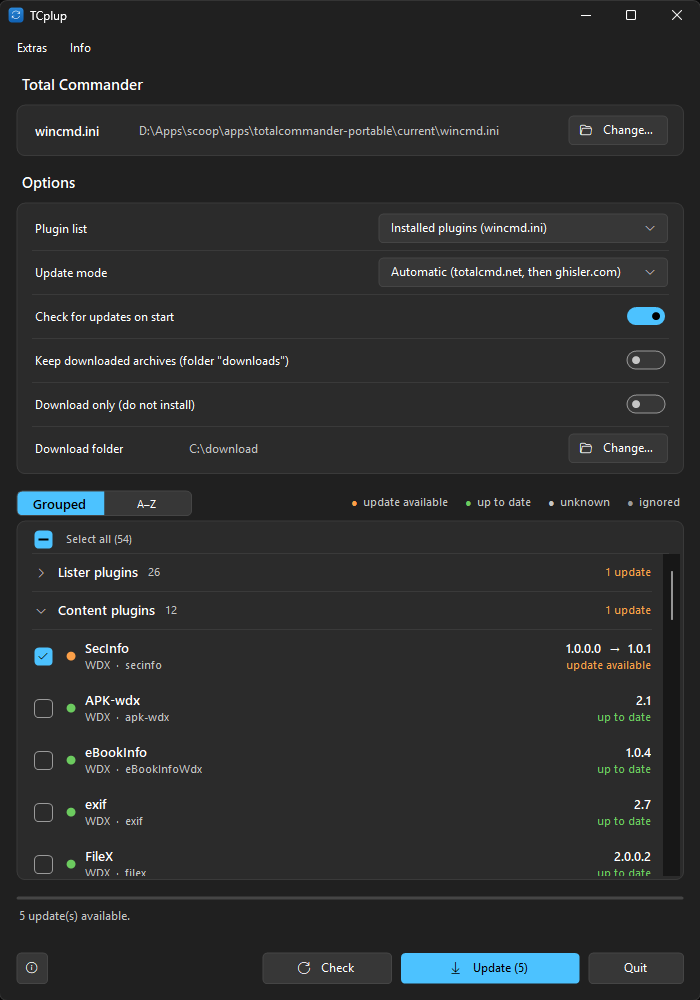
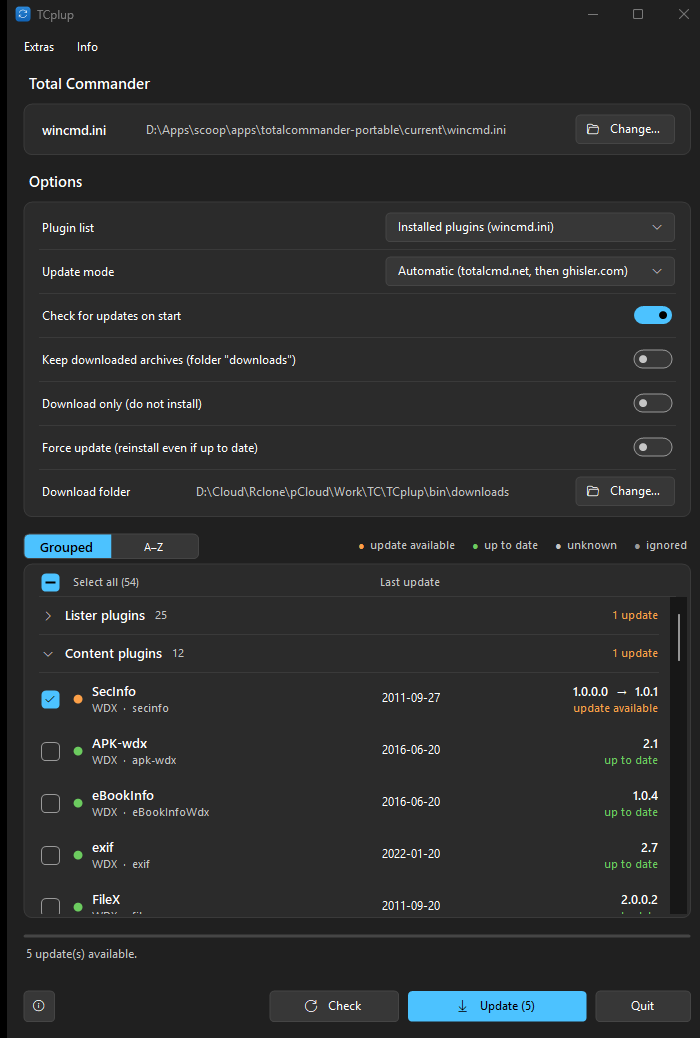
TCplup 1.4.0

diff --git a/README.de.md b/README.de.md
@@ -36,7 +36,7 @@ Ein Updater für Plugins des [Total Commanders](https://www.ghisler.com). Er lie
 
 | Element | Funktion |
 |---|---|
-| Liste **Plugins** | Der Umschalter über der Liste zeigt die Plugins **Gruppiert** nach Typ – **Lister**-, **Content**-, **Packer**- und **Dateisystem**-Plugins – oder als eine nach **A–Z** sortierte Liste. Plugins mit Update stehen in beiden Ansichten oben. In der gruppierten Ansicht auf eine Gruppenzeile klicken (oder Links/Rechts bzw. Leertaste darauf), um sie zu- oder aufzuklappen; sie zeigt die Anzahl der Plugins und der Updates. **Orange** = Update verfügbar (standardmäßig angehakt), **grün** = aktuell, **grau** = unbekannt oder keine Quelle gefunden. Auf das Kästchen klicken (oder Leertaste), um ein Plugin an- oder abzuwählen. Mehrere Plugins wählst du mit Strg und Umschalt. |
+| Liste **Plugins** | Jede Zeile zeigt in der Spalte **Letztes Update** das Datum der neuesten Plugin-Datei. Der Umschalter über der Liste zeigt die Plugins **Gruppiert** nach Typ – **Lister**-, **Content**-, **Packer**- und **Dateisystem**-Plugins – oder als eine nach **A–Z** sortierte Liste. Plugins mit Update stehen in beiden Ansichten oben. In der gruppierten Ansicht auf eine Gruppenzeile klicken (oder Links/Rechts bzw. Leertaste darauf), um sie zu- oder aufzuklappen; sie zeigt die Anzahl der Plugins und der Updates. **Orange** = Update verfügbar (standardmäßig angehakt), **grün** = aktuell, **grau** = unbekannt oder keine Quelle gefunden. Auf das Kästchen klicken (oder Leertaste), um ein Plugin an- oder abzuwählen. Mehrere Plugins wählst du mit Strg und Umschalt. |
 | Kontrollkästchen über der Liste | Wählt viele Plugins auf einmal an oder ab. Jeder Klick geht einen Schritt weiter: **Aktualisierungen auswählen**, dann **Alles auswählen**, dann **Auswahl aufheben**; das Kästchen zeigt, was gerade angehakt ist (leer, Strich bei einigen, Haken bei allen), und der Text daneben sagt, was der nächste Klick tut. Es wirkt auf die angezeigten Plugins, bei aktivem Legendenfilter also nur auf diese. |
 | **Legende** (über der Liste) | *Update verfügbar*, *aktuell*, *unbekannt* und *ignoriert* sind Filter: Klick zeigt nur diese Plugins, erneuter Klick wieder alle. *ignoriert* ist deine Ignore-Liste. |
 | **Prüfen** | Sucht für alle Plugins erneut nach Updates. |
@@ -46,10 +46,11 @@ Ein Updater für Plugins des [Total Commanders](https://www.ghisler.com). Er lie
 | **Beim Start nach Updates suchen** | Sucht beim Start von TCplup nach Updates (installiert aber nie von selbst). |
 | **Heruntergeladene Archive behalten** | Behält die heruntergeladenen Archive im Download-Ordner. |
 | **Nur herunterladen (nicht installieren)** | Speichert die Archive im Download-Ordner und lässt die installierten Plugins unverändert. |
+| **Update erzwingen (auch wenn aktuell)** | Bietet jedes Plugin mit Download als Update an (angehakt), sodass die aktuelle Version erneut installiert wird. |
 | **Download-Ordner** | Wohin behaltene und heruntergeladene Archive kommen. Standard: der Ordner `downloads` neben TCplup; mit *Ändern …* wählst du einen anderen. |
 | **ⓘ** (unten links) | Info-Fenster mit Version, Entwickler, Website und Programm-Updates. |
 
-Rechtsklick auf ein Plugin (oder die markierten Plugins): **Aktualisieren** – installiert sofort, auch wenn es aktuell ist –, **Als aktualisiert markieren** (für ein von Hand aktualisiertes Plugin: die angebotene Version gilt als installiert), *Quellseite öffnen*, *Plugin-Ordner öffnen* (im laufenden Total Commander, sonst im Explorer), *Quelle festlegen …*, *Diese Version überspringen* (nur diese Version wird ausgeblendet) und **Plugin ignorieren (nie aktualisieren)**. Ein ignoriertes Plugin bleibt abgeblendet und mit *ignoriert* in der Liste; es wird nicht geprüft, nicht angehakt und nicht aktualisiert, bis du *Plugin nicht mehr ignorieren* wählst. Das Menü **Extras** enthält *Plugins neu einlesen* (F5), *Total-Commander-Konfiguration wählen …*, *Plugin-Ordner öffnen*, *Alle Updates auswählen* / *Auswahl aufheben* sowie *Alle Gruppen aufklappen* / *Alle Gruppen zuklappen*.
+Rechtsklick auf ein Plugin (oder die markierten Plugins): **Aktualisieren** – installiert sofort –, **Update erzwingen** (installiert auch ein aktuelles Plugin neu), **Als aktualisiert markieren** (für ein von Hand aktualisiertes Plugin: die angebotene Version gilt als installiert), *Quellseite öffnen*, *Plugin-Ordner öffnen* (im laufenden Total Commander, sonst im Explorer), *Quelle festlegen …*, *Diese Version überspringen* (nur diese Version wird ausgeblendet) und **Plugin ignorieren (nie aktualisieren)**. Ein ignoriertes Plugin bleibt abgeblendet und mit *ignoriert* in der Liste; es wird nicht geprüft, nicht angehakt und nicht aktualisiert, bis du *Plugin nicht mehr ignorieren* wählst. Das Menü **Extras** enthält *Plugins neu einlesen* (F5), *Total-Commander-Konfiguration wählen …*, *Plugin-Ordner öffnen*, *Alle Updates auswählen* / *Auswahl aufheben* sowie *Alle Gruppen aufklappen* / *Alle Gruppen zuklappen*.
 
 Das Programm erscheint auf Deutsch, wenn Windows auf Deutsch eingestellt ist, sonst auf Englisch. Es folgt dem hellen oder dunklen Windows-Design und der Akzentfarbe.
 

diff --git a/README.md b/README.md
@@ -36,7 +36,7 @@ An updater for [Total Commander](https://www.ghisler.com) plugins. It reads the 
 
 | Element | What it does |
 |---|---|
-| **Plugins** list | The switch above the list shows the plugins **Grouped** by type – **Lister**, **Content**, **Packer** and **File system** plugins – or as one list sorted **A–Z**. Plugins with an update come first in both views. In the grouped view, click a group header (or press Left/Right or Space on it) to collapse or expand it; the header shows the number of plugins and of updates. **Orange** = update available (ticked by default), **green** = up to date, **grey** = unknown or no source found. Click the box (or press Space) to tick or untick a plugin. Select several plugins with Ctrl and Shift. |
+| **Plugins** list | Each row shows the date of the plugin's newest file in the column **Last update**. The switch above the list shows the plugins **Grouped** by type – **Lister**, **Content**, **Packer** and **File system** plugins – or as one list sorted **A–Z**. Plugins with an update come first in both views. In the grouped view, click a group header (or press Left/Right or Space on it) to collapse or expand it; the header shows the number of plugins and of updates. **Orange** = update available (ticked by default), **green** = up to date, **grey** = unknown or no source found. Click the box (or press Space) to tick or untick a plugin. Select several plugins with Ctrl and Shift. |
 | Checkbox above the list | Ticks and unticks many plugins at once. Each click moves on: **select the updates**, then **select all**, then **clear the selection**; the box shows what is ticked right now (empty, a dash for some, a check mark for all) and the text next to it says what the next click does. It acts on the plugins that are shown, so with a legend filter active only on those. |
 | **Legend** (above the list) | *update available*, *up to date*, *unknown* and *ignored* are filters: click one to show only those plugins, click again to show all. *ignored* is your ignore list. |
 | **Check** | Looks for updates again for all plugins. |
@@ -46,10 +46,11 @@ An updater for [Total Commander](https://www.ghisler.com) plugins. It reads the 
 | **Check for updates on start** | Looks for updates when TCplup starts (it never installs on its own). |
 | **Keep downloaded archives** | Keeps the downloaded archives in the download folder. |
 | **Download only (do not install)** | Saves the archives in the download folder and leaves the installed plugins untouched. |
+| **Force update (reinstall even if up to date)** | Offers every plugin that has a download as an update (ticked), so the current version is installed again. |
 | **Download folder** | Where kept and downloaded archives go. Default: the folder `downloads` next to TCplup; choose another one with *Change…*. |
 | **ⓘ** (bottom left) | About window with version, developer, website and program updates. |
 
-Right-click a plugin (or the selected plugins) for **Update** – installs it right away, also when it is up to date –, **Mark as updated** (for a plugin you updated by hand: the offered version counts as installed), *Open source page*, *Open plugin folder* (in the running Total Commander, otherwise in Explorer), *Set source…*, *Skip this version* (only this version is hidden) and **Ignore this plugin (never update)**. An ignored plugin stays in the list, dimmed and marked *ignored*; it is not checked, not ticked and not updated until you choose *Stop ignoring this plugin*. **Extras** has *Read plugins again* (F5), *Choose Total Commander configuration…*, *Open plugin folder*, *Select all updates* / *Clear selection* and *Expand all groups* / *Collapse all groups*.
+Right-click a plugin (or the selected plugins) for **Update** – installs it right away –, **Force update** (reinstalls it also when it is up to date), **Mark as updated** (for a plugin you updated by hand: the offered version counts as installed), *Open source page*, *Open plugin folder* (in the running Total Commander, otherwise in Explorer), *Set source…*, *Skip this version* (only this version is hidden) and **Ignore this plugin (never update)**. An ignored plugin stays in the list, dimmed and marked *ignored*; it is not checked, not ticked and not updated until you choose *Stop ignoring this plugin*. **Extras** has *Read plugins again* (F5), *Choose Total Commander configuration…*, *Open plugin folder*, *Select all updates* / *Clear selection* and *Expand all groups* / *Collapse all groups*.
 
 The program appears in German when Windows is set to German, otherwise in English. It follows the light or dark Windows theme and the accent color.
 
